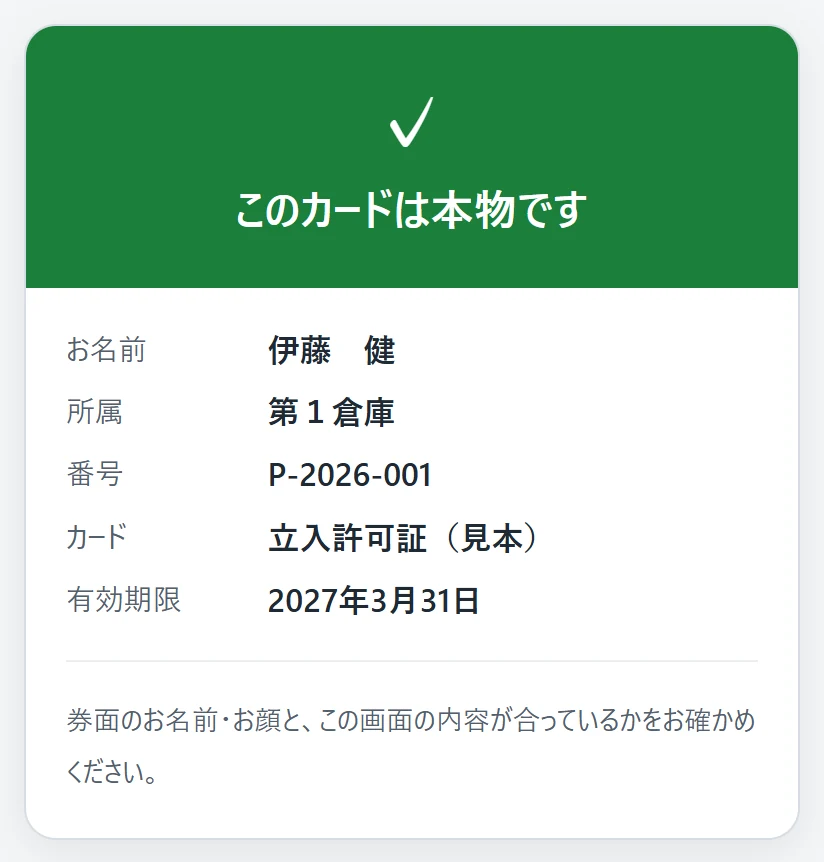
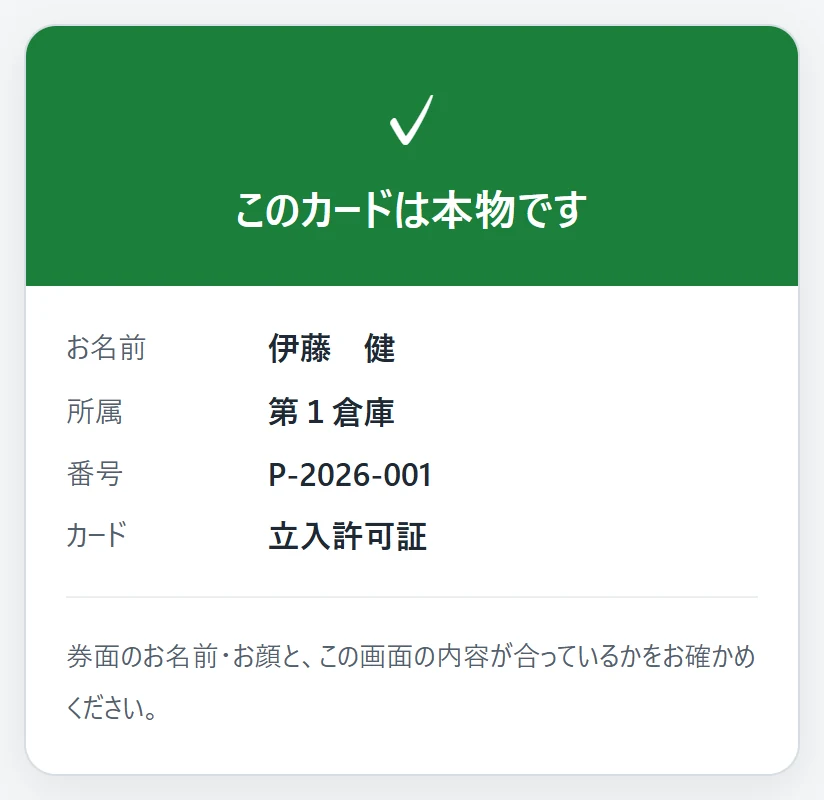
確認用QRの説明を、実際の動きどおりに直す（レビュー指摘）
- 「偽造は、すぐに分かります」は広すぎた。分かるのは「中身を書き換えたとき」。
  本物の QR を複製したカードは、名簿に残っているあいだは有効と出る。
  紛失時は名簿から消すこと、を但し書きとして添えた。
- 「読み取っただけで個人情報が漏れない」も強すぎた。確認画面には氏名が出る。
  正しくは「QR の中身に氏名は書いていない。氏名は確認画面で名簿から出す」。
- 案内の絵を、24時間で消える体験の部屋ではなく、消えない見本から撮り直した。
  載せた QR を明日以降に読んでも「本物です」と出る。

diff --git a/src/pages/CardSync/CardSyncPage.jsx b/src/pages/CardSync/CardSyncPage.jsx
@@ -169,10 +169,11 @@ export default function CardSyncPage() {
               <p>カードの裏面に、署名入りの QR コードを印刷できます。スマートフォンのカメラで読み取るだけで、そのカードが本当に発行されたものか、有効期限内かを、その場で確認できます。</p>
               <p>専用のアプリは必要ありません。受付のご担当者も、施設をご利用になるご家族も、標準のカメラで読み取るだけです。</p>
               <ul className="cs-verify-points">
-                <li><strong>偽造は、すぐに分かります。</strong>QR を1文字でも書き換えると「確かめられませんでした」と表示されます。</li>
-                <li><strong>退職された方のカードは、自動的に使えなくなります。</strong>名簿から削除すると「すでに使われていません」に変わります。</li>
-                <li><strong>QR コードに氏名は入れていません。</strong>読み取っただけで個人情報が漏れることはありません。氏名は確認画面で名簿から表示されます。</li>
+                <li><strong>作り替えられた QR は、その場で分かります。</strong>中身を1文字でも書き換えると「確かめられませんでした」と表示されます。</li>
+                <li><strong>退職された方や、紛失したカードは、名簿から削除すれば使えなくなります。</strong>削除した時点で「すでに使われていません」に変わります。有効期限を過ぎたカードも同様です。</li>
+                <li><strong>QR コードの中身に、氏名は書いていません。</strong>お名前は、読み取った方が見る確認画面に、そのときの名簿から表示されます。</li>
               </ul>
+              <p className="cs-verify-caveat">なお、本物の QR をそのまま複製したカードは、名簿に残っているあいだは「本物です」と表示されます。カードを紛失された場合は、名簿から削除してください。</p>
             </div>
             <div className="cs-verify-shots">
               <figure>

diff --git a/src/seo/site.js b/src/seo/site.js
@@ -364,7 +364,7 @@ export const CARDSYNC_FAQS = [
   },
   {
     q: 'カードの偽造が心配です。見分けられますか？',
-    a: 'カードの裏面に、署名入りの QR コードを印刷できます。スマートフォンの標準のカメラで読み取ると、本当に発行されたカードか、有効期限内かがその場で分かります。専用アプリは不要です。QR を書き換えると「確かめられませんでした」と表示され、名簿から削除した方のカードは「すでに使われていません」に変わります。QR に氏名は含めていないため、読み取られても個人情報は漏れません。',
+    a: 'カードの裏面に、署名入りの QR コードを印刷できます。スマートフォンの標準のカメラで読み取ると、本当に発行されたカードか、有効期限内かがその場で分かります。専用アプリは不要です。QR の中身を書き換えると「確かめられませんでした」と表示されます。退職された方や紛失したカードは、名簿から削除すれば「すでに使われていません」に変わります。なお、本物の QR をそのまま複製したカードは、名簿に残っているあいだは有効と表示されますので、紛失時は名簿からの削除をお願いします。QR の中身に氏名は書いていません。',
   },
   {
     q: '体験で入力したデータは、どうなりますか？',

diff --git a/src/pages/CardSync/CardSync.css b/src/pages/CardSync/CardSync.css
@@ -131,6 +131,7 @@
   font-size: 0.95rem;
 }
 .cs-verify-points strong { color: #fff; }
+.cs-verify-caveat { margin-top: 1rem; font-size: .88rem; line-height: 1.9; color: #9fb0a5; }
 .cs-verify-shots { display: grid; gap: 20px; justify-items: center; }
 .cs-verify-shots figure { margin: 0; width: 100%; }
 .cs-verify-shots img {
